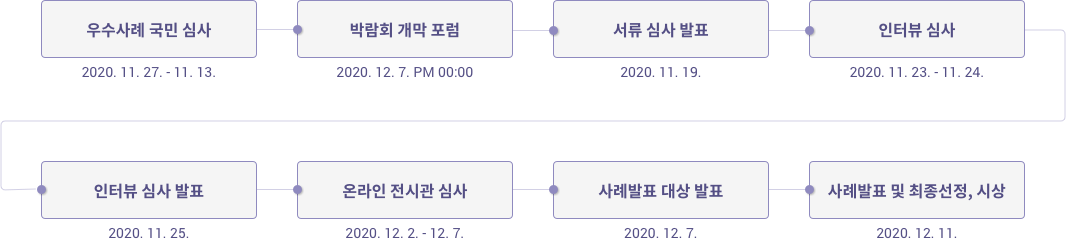
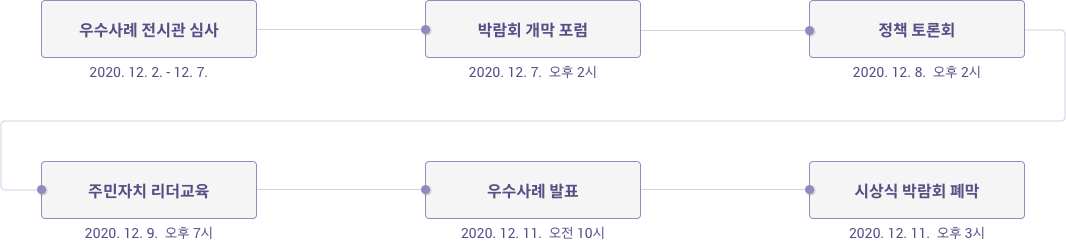
responsive imgs

diff --git a/src/components/HomeBoardNotice.tsx b/src/components/HomeBoardNotice.tsx
@@ -2,29 +2,39 @@ import React from "react";
 import { Board } from "../types";
 import { makeStyles } from "@material-ui/core/styles";
 import { grey } from "@material-ui/core/colors";
-import BoardPostNotice from "./BoardPostNotice";
 import { Typography, Grid, Box } from "@material-ui/core";
 import GreyDivider from "./GreyDivider";
 import BoardMoreTag from "./BoardMoreTag";
 import useDesktop from "./useDesktop";
 import usePosts from "../store/usePosts";
 import { useGroupId } from "../store/useGlobalState";
+import HomeBoardPhoto from "./HomeBoardPhoto";
 const useStyles = makeStyles((theme) => {
   return {
     container: {
-      [theme.breakpoints.up("md")]: {
-        marginBottom: theme.spacing(5),
-      },
+      flex: 1,
+      paddingTop: theme.spacing(2),
+      paddingBottom: theme.spacing(5),
+    },
+    titleContainer: {
       [theme.breakpoints.down("sm")]: {
         marginLeft: theme.spacing(2),
         paddingRight: theme.spacing(2),
       },
+      "&>.space-between": {
+        marginTop: theme.spacing(1),
+        display: "flex",
+        alignItems: "center",
+        justifyContent: "space-between",
+      },
     },
-    titleContainer: {
-      borderBottom: `1px solid ${grey[400]}`,
-      paddingTop: theme.spacing(2),
-      paddingBottom: theme.spacing(2),
-      [theme.breakpoints.down("sm")]: {},
+    photoGrid: {
+      [theme.breakpoints.down("sm")]: {
+        padding: theme.spacing(2),
+      },
+      [theme.breakpoints.up("md")]: {
+        paddingTop: theme.spacing(3),
+      },
     },
   };
 });
@@ -37,23 +47,26 @@ export default function HomeBoardNotice({ board: b }: { board: Board }) {
   return (
     <>
       <section className={classes.container}>
-        <Grid
-          container
-          justify="space-between"
-          alignItems="center"
-          className={classes.titleContainer}
-        >
+        <div className={classes.titleContainer}>
           <Typography variant="h2" color="textPrimary">
             <Box fontWeight="bold">{b?.title}</Box>
           </Typography>
-          {isDesktop && <BoardMoreTag to={`/${group_id}/${b?.id}`} />}
-        </Grid>
-        <div>
-          {posts.map((p) => (
-            <BoardPostNotice key={p.id} post={p} />
-          ))}
+          <div className="space-between">
+            <div>{b?.body}</div>
+            {isDesktop && (
+              <BoardMoreTag label={b?.title} to={`/${group_id}/${b.id}`} />
+            )}
+          </div>
         </div>
-        {!isDesktop && <BoardMoreTag to={`/${group_id}/${b?.id}`} />}
+        <Grid
+          container
+          spacing={isDesktop ? 3 : 2}
+          className={classes.photoGrid}
+        >
+          {posts?.map((p) => (
+            <HomeBoardPhoto key={p.id} p={p} />
+          ))}
+        </Grid>
       </section>
       {!isDesktop && <GreyDivider />}
     </>

diff --git a/src/components/ScheduleImgs.tsx b/src/components/ScheduleImgs.tsx
@@ -1,0 +1,58 @@
+import React from "react";
+import { Box, makeStyles, Typography } from "@material-ui/core";
+import mobile from "../assets/images/mobile-schedule.png";
+import desktop from "../assets/images/desktop-schedule.png";
+import tablet from "../assets/images/tablet-schedule.png";
+const useStyles = makeStyles((theme) => {
+  return {
+    root: {
+      display: "flex",
+      flexDirection: "column",
+      flex: 1,
+      paddingTop: theme.spacing(2),
+      paddingBottom: theme.spacing(5),
+      "&>.title": {
+        [theme.breakpoints.down("sm")]: {
+          marginLeft: theme.spacing(2),
+          paddingRight: theme.spacing(2),
+        },
+        paddingTop: theme.spacing(1),
+        paddingBottom: theme.spacing(5),
+      },
+      "&>img": {
+        display: "none",
+        objectFit: "contain",
+        "&.desktop": {
+          [theme.breakpoints.up("md")]: {
+            display: "block",
+          },
+        },
+        "&.mobile": {
+          [theme.breakpoints.down("xs")]: {
+            display: "block",
+          },
+        },
+        "&.tablet": {
+          [theme.breakpoints.only("sm")]: {
+            display: "block",
+          },
+        },
+      },
+    },
+  };
+});
+export default function ScheduleImgs() {
+  const classes = useStyles();
+  return (
+    <section className={classes.root}>
+      <div className="title">
+        <Typography variant="h2" color="textPrimary">
+          <Box fontWeight="bold">주요일정</Box>
+        </Typography>
+      </div>
+      <img src={desktop} alt="desktop" className="desktop" />
+      <img src={tablet} alt="tablet" className="tablet" />
+      <img src={mobile} alt="mobile" className="mobile" />
+    </section>
+  );
+}

diff --git a/src/components/HomeBoardPhoto.tsx b/src/components/HomeBoardPhoto.tsx
@@ -2,12 +2,20 @@ import React from "react";
 import { Post } from "../types";
 import { useStyles } from "../helpers/styles";
 import { LazyImage } from "react-lazy-images";
-import { Grid, Hidden, Typography } from "@material-ui/core";
+import { Grid, GridSize, Hidden, Typography } from "@material-ui/core";
 import { NavLink } from "react-router-dom";
-export default function HomeBoardPhoto({ p }: { p: Post }) {
+export default function HomeBoardPhoto({
+  p,
+  xs = 6,
+  md = 3,
+}: {
+  p: Post;
+  xs?: GridSize;
+  md?: GridSize;
+}) {
   const classes = useStyles();
   return (
-    <Grid item xs={6} md={3}>
+    <Grid item xs={xs} md={md}>
       <NavLink className={classes.aspectRatio} exact to={`/post/${p.id}`}>
         <LazyImage
           alt={p.title}

diff --git a/src/components/Home.tsx b/src/components/Home.tsx
@@ -4,6 +4,7 @@ import HomeBoardSuggestion from "./HomeBoardSuggestion";
 import { useBoards } from "../store/useGlobalState";
 import { Board } from "../types";
 import useEffectBoardId from "../store/useEffectBoardId";
+import ScheduleImgs from "./ScheduleImgs";
 
 export default function Home() {
   const [boards] = useBoards();
@@ -22,5 +23,10 @@ export default function Home() {
         return null;
     }
   });
-  return <>{boardArr}</>;
+  return (
+    <>
+      {boardArr}
+      <ScheduleImgs />
+    </>
+  );
 }

diff --git a/src/components/HomeBoardEvent.tsx b/src/components/HomeBoardEvent.tsx
@@ -12,6 +12,9 @@ import { useGroupId } from "../store/useGlobalState";
 const useStyles = makeStyles((theme) => {
   return {
     container: {
+      flex: 1,
+      paddingTop: theme.spacing(2),
+      paddingBottom: theme.spacing(5),
       [theme.breakpoints.up("md")]: {
         border: `1px solid ${grey[300]}`,
         maxWidth: 364,

diff --git a/src/components/GreyDivider.tsx b/src/components/GreyDivider.tsx
@@ -8,7 +8,7 @@ const useStyles = makeStyles((theme) => {
         display: "none",
       },
       backgroundColor: grey[300],
-      paddingTop: (height: number) => theme.spacing(height),
+      paddingTop: (height: number) => height,
     },
   };
 });
